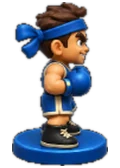
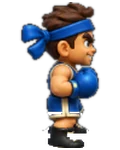
Kızma: boksörlerin altındaki kaideler kaldırıldı; adamlar yerinde boksör gibi zıplıyor
Claude-Session: https://claude.ai/code/session_01317xUqUekvPYit4yQEH6Bw

diff --git a/kizma/index.html b/kizma/index.html
@@ -43,8 +43,11 @@ header .t{flex:1;min-width:0;text-align:center;font-weight:700;font-size:16px}
 .pawn.can::after{content:"";position:absolute;inset:-7px;border-radius:50%;border:3px solid #fff;opacity:.9}
 .pawn.up{transform:translateY(-14%) scale(1.12);z-index:5}
 /* satranç piyonu görünümü: yürür, vurur, devrilir */
-.pawn{background:none!important;border:0!important;box-shadow:none!important;border-radius:0!important;width:9.6%!important;height:13.4%;margin:-12.1% 0 0 -4.8%;filter:drop-shadow(0 3px 2px rgba(0,0,0,.45))}
-.pawn img.spr{display:block;width:100%;height:100%;object-fit:contain;object-position:50% 100%;pointer-events:none;-webkit-user-drag:none;user-select:none}
+.pawn{background:none!important;border:0!important;box-shadow:none!important;border-radius:0!important;width:9.6%!important;height:12%;margin:-10.9% 0 0 -4.8%;filter:drop-shadow(0 3px 2px rgba(0,0,0,.45))}
+.pawn img.spr{display:block;width:100%;height:100%;object-fit:contain;object-position:50% 100%;pointer-events:none;-webkit-user-drag:none;user-select:none;transform-origin:50% 100%;animation:box 1s ease-in-out infinite;animation-delay:var(--dl,0s)}
+/* boksör duruşu: yerinde zıplar, omuz sallar */
+@keyframes box{0%,100%{transform:translateY(0) rotate(-2deg) scale(1,1)}25%{transform:translateY(-6%) rotate(0deg) scale(.98,1.03)}50%{transform:translateY(0) rotate(2deg) scale(1.02,.97)}75%{transform:translateY(-4%) rotate(0deg) scale(.99,1.02)}}
+.pawn.walking img.spr{animation:none}
 .pawn svg{display:block;width:100%;height:100%;overflow:visible;transform-origin:50% 92%}
 .pawn.can::after{inset:auto -3px -2px -3px;height:22%;border-radius:50%}
 .pawn .body{position:absolute;inset:0;transform-origin:50% 92%}
@@ -187,7 +190,7 @@ function buildBoard(){const b=$('board');b.querySelectorAll('.cell,.pawn,.zone')
   for(const p of [0,1,2,3]){const on=G.act.includes(p);
     HOME[p].forEach(xy=>{const c=document.createElement('div');c.className='cell hm';c.style.background=on?`color-mix(in srgb,${CV[p]} 45%,#fff)`:'#eee3cc';c.style.borderColor=on?CV[p]:'var(--line)';place(c,xy);b.appendChild(c)});
     BASE[p].forEach(xy=>{const c=document.createElement('div');c.className='cell';c.style.background=on?`color-mix(in srgb,${CV[p]} 25%,#fff)`:'#eee3cc';c.style.borderColor=on?CV[p]:'var(--line)';place(c,xy);b.appendChild(c)});
-    if(on)for(let i=0;i<4;i++){const e=document.createElement('div');e.className='pawn';e.id=`pw${p}${i}`;e.style.background=CV[p];e.innerHTML=`<div class="body"><img class="spr" src="img/${SPR[p]}_front.webp" alt="" draggable="false"></div>`;e.onclick=()=>tapPawn(p,i);b.appendChild(e)}}
+    if(on)for(let i=0;i<4;i++){const e=document.createElement('div');e.className='pawn';e.id=`pw${p}${i}`;e.style.background=CV[p];e.style.setProperty('--dl',(-Math.random()).toFixed(2)+'s');e.innerHTML=`<div class="body"><img class="spr" src="img/${SPR[p]}_front.webp" alt="" draggable="false"></div>`;e.onclick=()=>tapPawn(p,i);b.appendChild(e)}}
   buildBoard.key=G.act.join()+':'+me}
 function render(){if(!G)return;if(buildBoard.key!==G.act.join()+':'+me)buildBoard();
   for(const p of G.act)for(let i=0;i<4;i++){const e=$(`pw${p}${i}`);if(!e||e.dataset.anim)continue;place(e,xyOf(p,i,G.pawns[p][i]));e.classList.remove('can','up')}

diff --git a/sw.js b/sw.js
@@ -1,5 +1,5 @@
 /* çevrimdışı destek: önce ağdan dene (güncel kalsın), olmazsa kayıtlı kopyayı göster */
-const C='kahvehane-v36';
+const C='kahvehane-v37';
 self.addEventListener('install',e=>{self.skipWaiting();e.waitUntil(caches.open(C).then(c=>c.addAll(['./','durak/','satranc/','pisti/','okey101/','kahvehane/','king/','kizma/','tavla/','batak/','bin/','pisti4/','dama/','icon-192.png']).catch(()=>{})))});
 self.addEventListener('activate',e=>e.waitUntil(self.clients.claim()));
 self.addEventListener('fetch',e=>{const r=e.request;if(r.method!=='GET'||new URL(r.url).origin!==location.origin)return;
